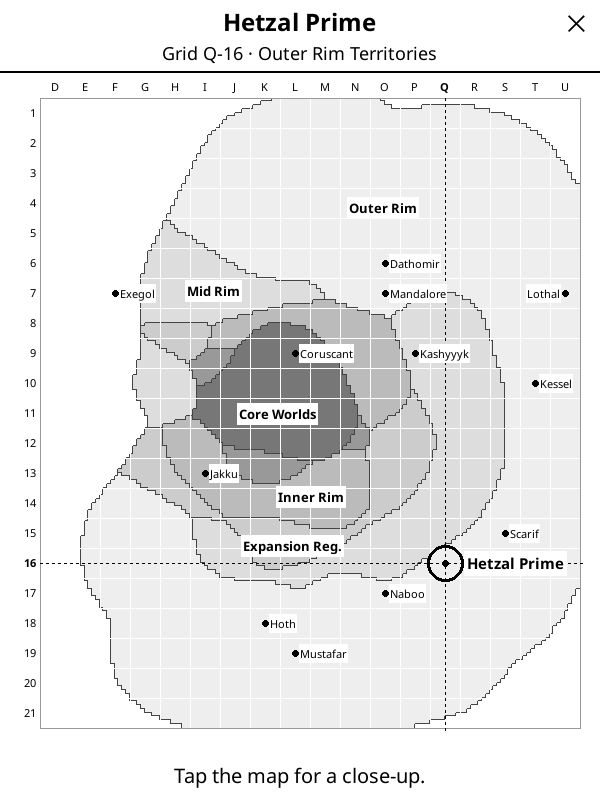
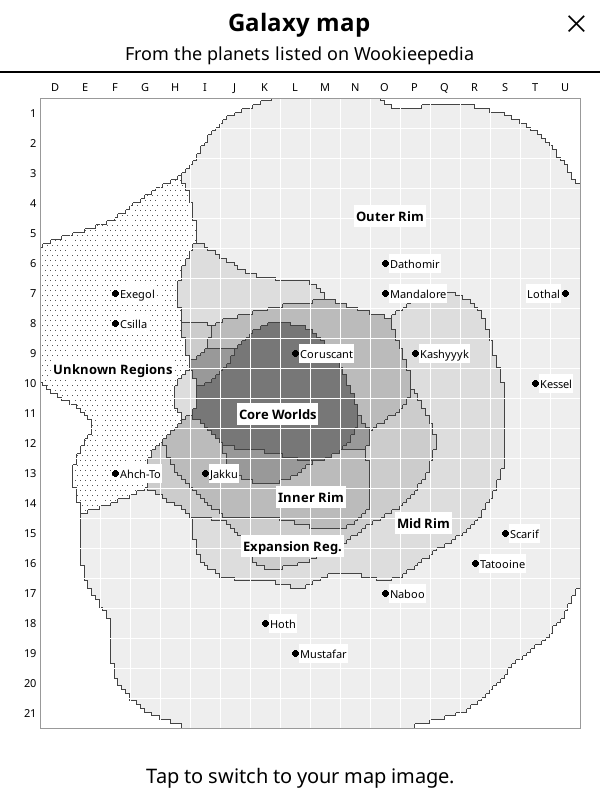
Map: Unknown Regions as a dotted area, Galaxy map menu entry
- Planets listed only in the Unknown Regions now vote for their own region,
  drawn as a dot pattern (lighter in the close-up) since it isn't a ring
- Csilla and Ahch-To added as landmarks; label placement treats the map
  edge as a boundary
- Galaxy map entry in the Wookieepedia menu opens the map without a planet
  (galaxy view, plus the whole atlas image if installed)
- Fix: compare colors by type, not ==, since cdata __eq crashed on strings

diff --git a/tools/build_galaxy_grid.py b/tools/build_galaxy_grid.py
@@ -30,11 +30,13 @@ MAIN = {  # Wookieepedia spelling -> map region (the concentric rings)
     "Mid Rim": "Mid Rim", "Mid Rim Territories": "Mid Rim",
     "Outer Rim": "Outer Rim Territories", "Outer Rim Territories": "Outer Rim Territories",
 }
+# The rings around the core, then the Unknown Regions (not a ring: drawn dotted).
 ORDER = ["Deep Core", "Core Worlds", "Colonies", "Inner Rim", "Expansion Region", "Mid Rim",
-         "Outer Rim Territories"]
+         "Outer Rim Territories", "Unknown Regions"]
 SHORT = {"Outer Rim Territories": "Outer Rim", "Expansion Region": "Expansion Reg."}
 LANDMARKS = ["Coruscant", "Tatooine", "Naboo", "Hoth", "Kashyyyk", "Mustafar", "Jakku",
-             "Mandalore", "Lothal", "Scarif", "Kessel", "Dathomir", "Exegol", "Dagobah"]
+             "Mandalore", "Lothal", "Scarif", "Kessel", "Dathomir", "Exegol", "Dagobah",
+             "Csilla", "Ahch-To"]
 
 planets = json.loads((DATA / "planets.json").read_text())
 cols = [chr(c) for c in range(ord(min(p["col"] for p in planets)), ord(max(p["col"] for p in planets)) + 1)]
@@ -47,10 +49,11 @@ by_square = collections.defaultdict(list)
 for p in planets:
     ci, ri = ord(p["col"]) - ord(cols[0]), p["row"] - rmin
     by_square[(ci, ri)].append(p)
-    for r in p["region"]:
-        if r in MAIN:
-            votes[(ci, ri)][MAIN[r]] += 1
-            break
+    ring = next((MAIN[r] for r in p["region"] if r in MAIN), None)
+    if ring:
+        votes[(ci, ri)][ring] += 1
+    elif "Unknown Regions" in p["region"]:
+        votes[(ci, ri)]["Unknown Regions"] += 1
 
 # Smooth raster.
 W, H = ncols * SUB, nrows * SUB
@@ -83,8 +86,10 @@ raster = ["".join(codes[c] if c else "." for c in row) for row in grid]
 labels = []
 for region in ORDER:
     INF = float("inf")
-    dist = [[0 if grid[y][x] != region else INF for x in range(W)] for y in range(H)]
-    if not any(d == INF for row in dist for d in row):
+    # 0 outside the region, 1 on the map edge (labels must not run off it), else unknown.
+    dist = [[0 if grid[y][x] != region else (1 if x in (0, W - 1) or y in (0, H - 1) else INF)
+             for x in range(W)] for y in range(H)]
+    if not any(grid[y][x] == region for y in range(H) for x in range(W)):
         continue
     # Two-pass chamfer distance (cheap, good enough for picking a label spot).
     for y in range(H):
@@ -92,7 +97,6 @@ for region in ORDER:
             if dist[y][x]:
                 if x > 0: dist[y][x] = min(dist[y][x], dist[y][x - 1] + 0.5)
                 if y > 0: dist[y][x] = min(dist[y][x], dist[y - 1][x] + 1)
-            if dist[y][x] == INF and (x == 0 or y == 0): dist[y][x] = 1
     for y in range(H - 1, -1, -1):
         for x in range(W - 1, -1, -1):
             if dist[y][x]:
@@ -135,6 +139,6 @@ out += ["    },", "}", ""]
 (DATA / "galaxy_grid.lua").write_text("\n".join(out))
 
 print(f"{ncols}x{nrows} squares, raster {W}x{H}, {len(labels)} labels, {len(landmarks)} landmarks")
-sym = {"1": "@", "2": "#", "3": "%", "4": "+", "5": "=", "6": "-", "7": ".", ".": " "}
+sym = {"1": "@", "2": "#", "3": "%", "4": "+", "5": "=", "6": "-", "7": ".", "8": "?", ".": " "}
 for row in raster[::SUB // 2]:
     print("".join(sym[c] for c in row[::SUB // 2]))

diff --git a/README.md b/README.md
@@ -8,7 +8,7 @@ A [KOReader](https://github.com/koreader/koreader) plugin that looks up Star War
 
 - **Wookieepedia** button in the text-selection popup. Select a name such as "Avar Kriss" and tap it.
 - **Wookieepedia** button in the dictionary popup. Long-press a single word.
-- **Search (🔍) → Wookieepedia** menu: search by typing, toggle the spoiler shield, and manage saved articles.
+- **Search (🔍) → Wookieepedia** menu: search by typing, open the **Galaxy map**, toggle the spoiler shield, and manage saved articles.
 - Shows the article's **intro only** by default, which is quick and keeps spoilers down. **Full article** is one tap away.
 - Follows redirects (*Rey* → *Rey Skywalker*).
 - Offers a pick list for disambiguation pages (*Mace*) and for selections that don't match a title exactly (*avar kriss*).
@@ -18,7 +18,7 @@ A [KOReader](https://github.com/koreader/koreader) plugin that looks up Star War
   - **Intros** show only their first paragraph, which usually says who or what it is. Wookieepedia intros often summarize a character's whole story, so the rest stays behind **Show more**.
   - **Full articles** hide every paragraph sourced from a book, comic or audio drama that comes later in your reading order. Wookieepedia cites the source of nearly every paragraph. Films and TV are always shown, and reference works (Databank, encyclopedias, magazines) don't count either way. The reading position follows the book you open (the High Republic main-story order from the r/Highrepublic wiki), or you can set it in the menu. Hidden parts appear as "[3 paragraphs hidden…]", and **Show hidden** reveals them after you confirm.
 - **Location line and galaxy map** for planets: region, sector, system and grid square, plus a **Map** button. Tap the map to switch views:
-  - **Galaxy:** the whole grid with region names, landmark planets and the planet ringed.
+  - **Galaxy:** the whole grid with region names, landmark planets and the planet ringed. The Unknown Regions in the west are dotted, because they are not one of the rings around the core.
   - **Close-up:** the 5×5 squares around the planet, with the best-known planets in each.
   - **Atlas** (optional): your own map image with the square marked (see DEV.md).
 - Downloads can be cancelled with a tap. If Wi-Fi is off, KOReader offers to turn it on.
